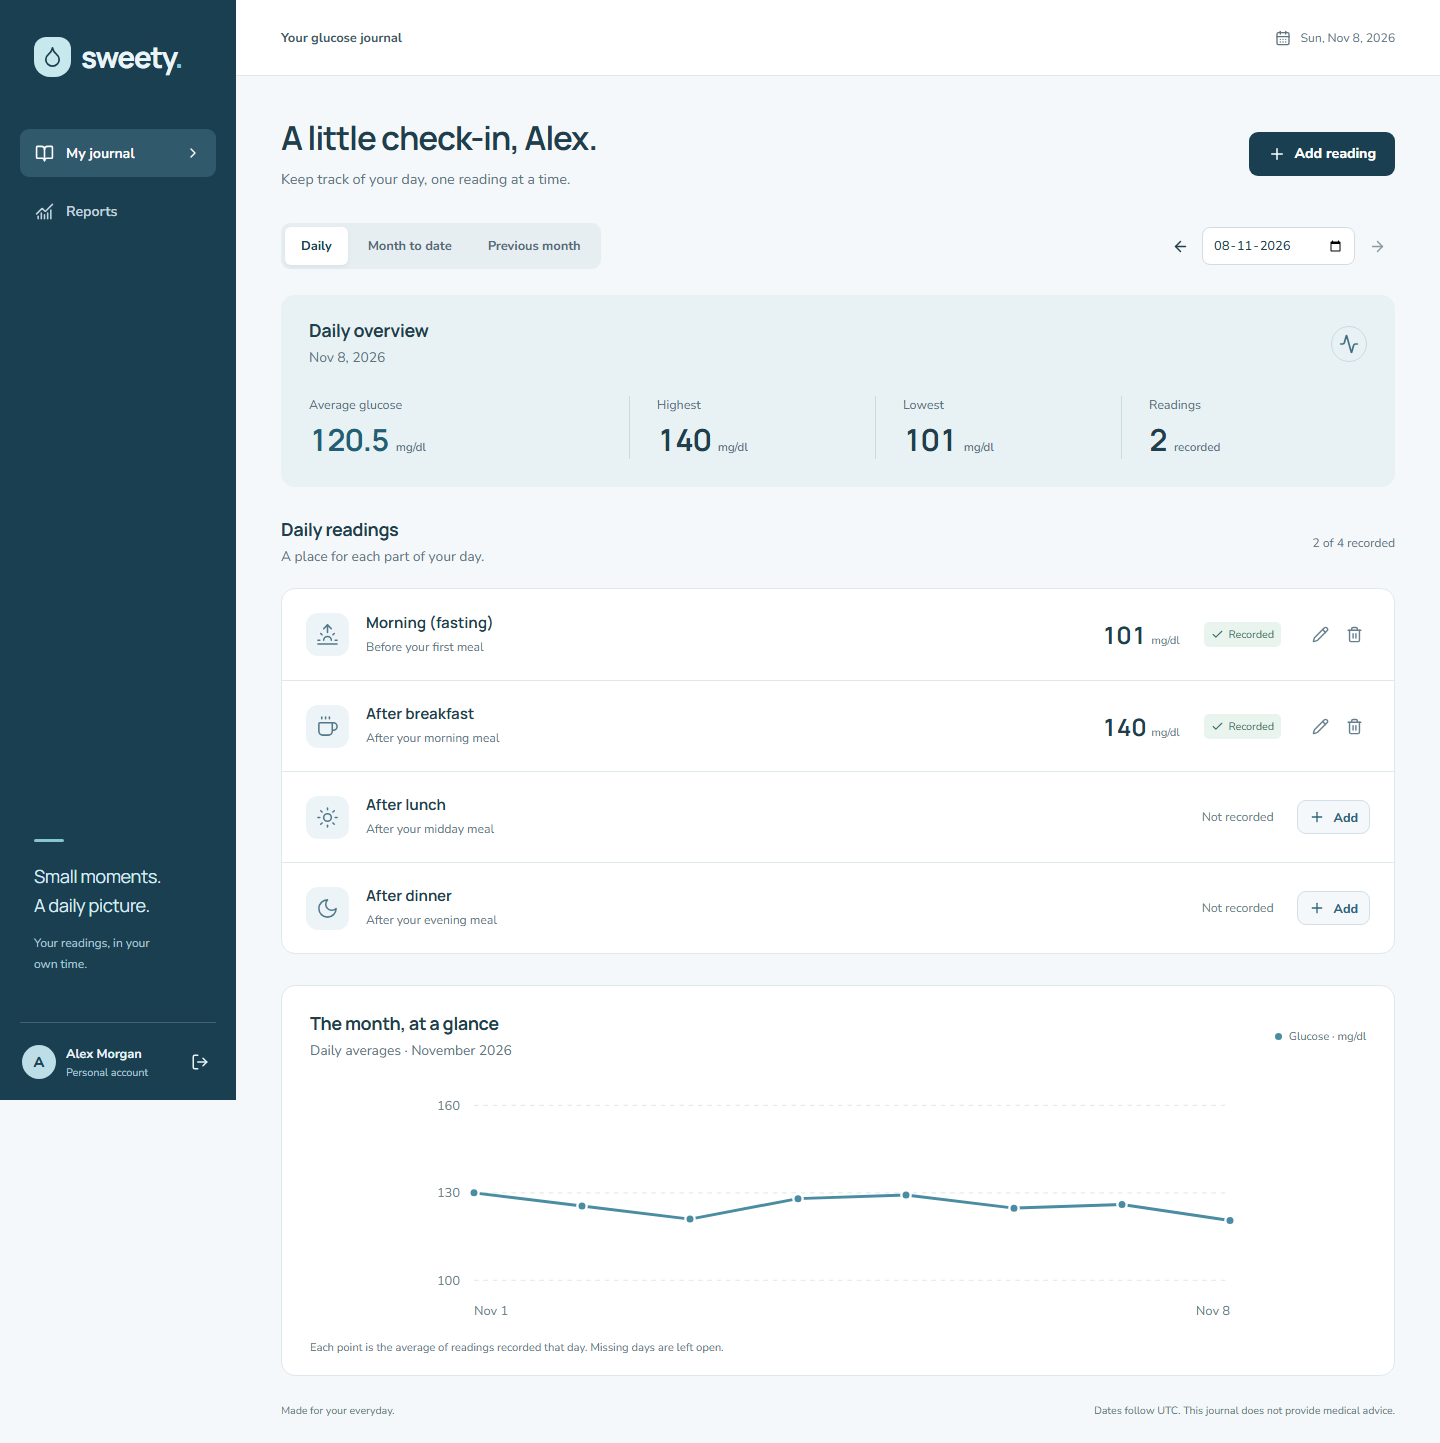
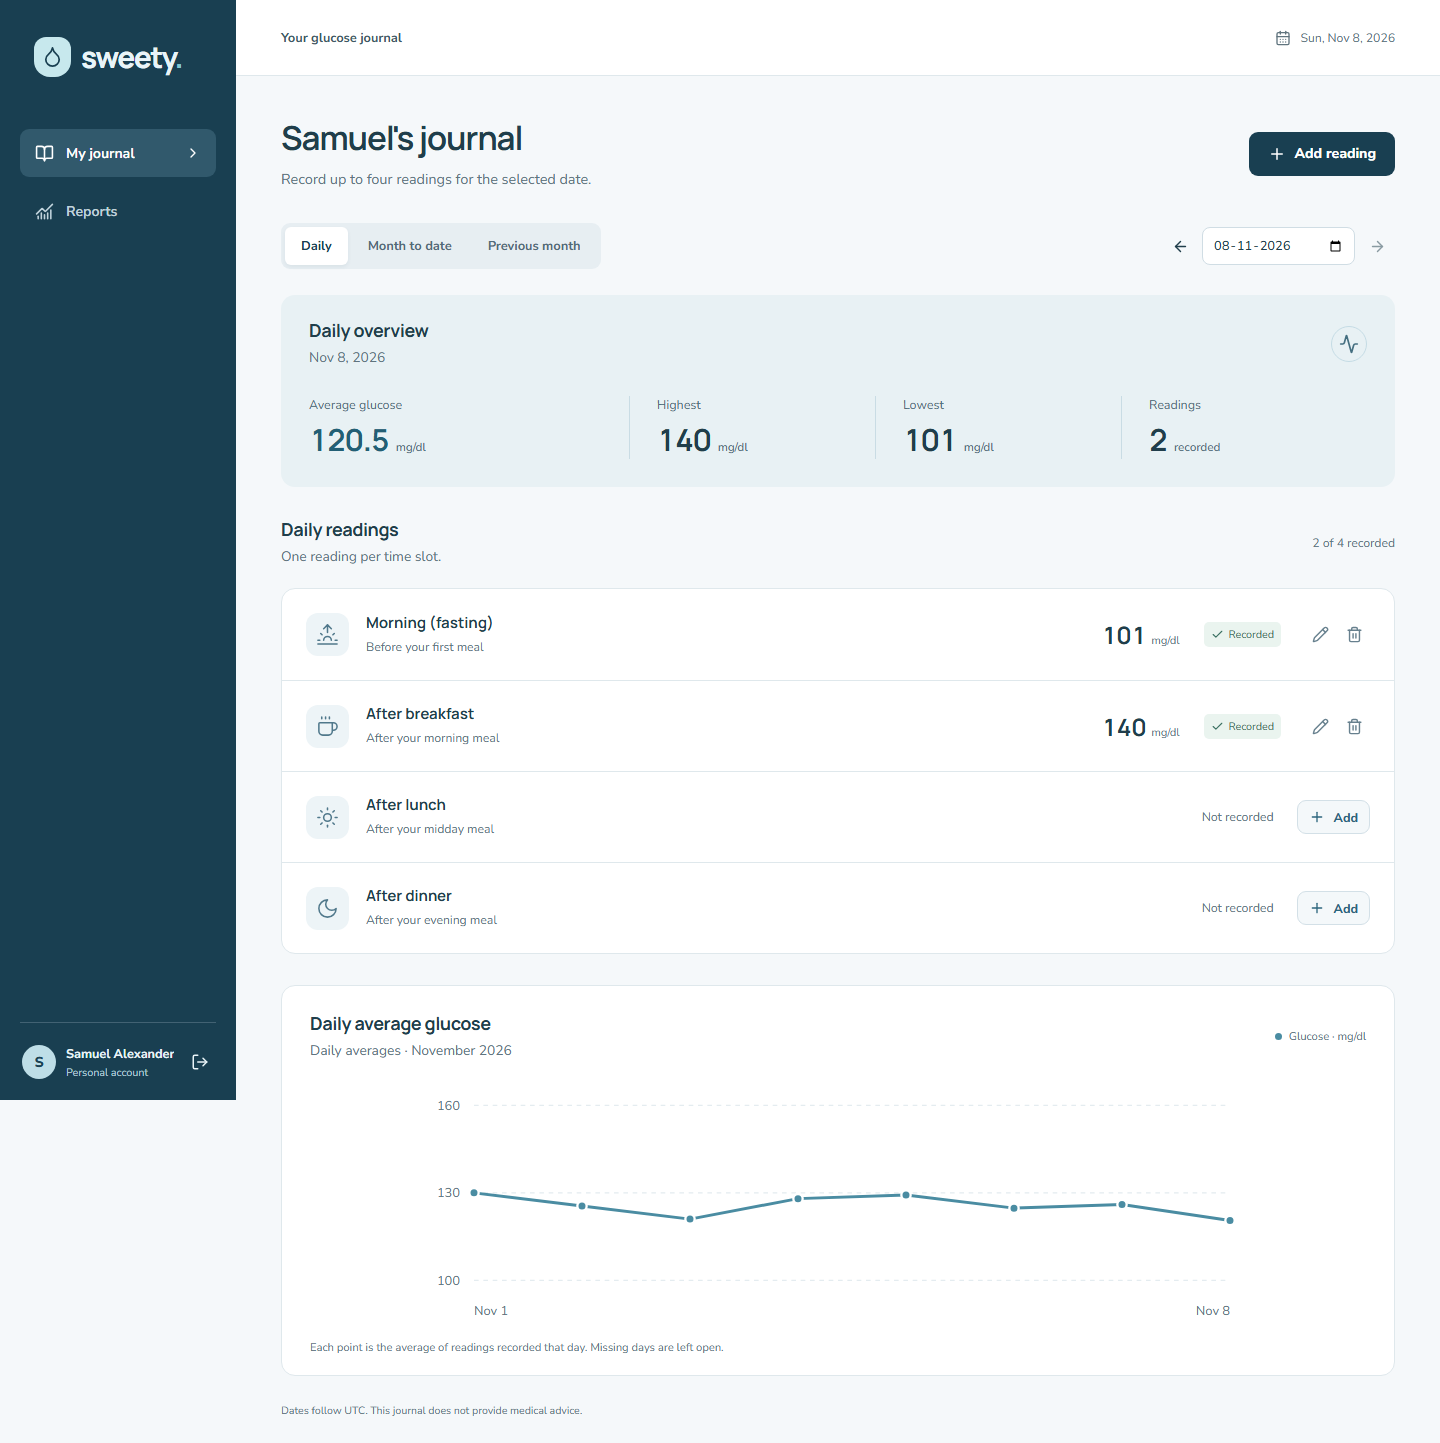
Verify requirements, personalize demo, and remove UI filler

diff --git a/e2e/journal.spec.js b/e2e/journal.spec.js
@@ -7,11 +7,11 @@ test('a patient can register, validate, record, edit, report, delete, and log ba
   const email = `e2e-${randomUUID()}@example.com`;
   await page.goto('/');
   await page.getByRole('button', { name: 'Create an account' }).click();
-  await page.getByLabel('Your name').fill('Jamie');
+  await page.getByLabel('Your name').fill('Samuel Alexander');
   await page.getByLabel('Email address').fill(email);
   await page.getByLabel('Password', { exact: true }).fill('Journal-test-2026');
   await page.getByRole('button', { name: 'Create account', exact: true }).click();
-  await expect(page.getByRole('heading', { name: 'A little check-in, Jamie.' })).toBeVisible();
+  await expect(page.getByRole('heading', { name: "Samuel's journal" })).toBeVisible();
   await expect(page.getByText('Your picture starts with a reading')).toBeVisible();
   await page.getByRole('button', { name: 'Add After lunch', exact: true }).click();
   await page.getByRole('button', { name: 'Save reading' }).click();
@@ -21,10 +21,26 @@ test('a patient can register, validate, record, edit, report, delete, and log ba
   await expect(
     page.getByText('Value must be a whole number between 40 and 600 mg/dl.'),
   ).toBeVisible();
+  await page.getByRole('spinbutton').fill('100.5');
+  await page.getByRole('button', { name: 'Save reading' }).click();
+  await expect(
+    page.getByText('Value must be a whole number between 40 and 600 mg/dl.'),
+  ).toBeVisible();
   await page.getByRole('spinbutton').fill('125');
   await page.getByRole('button', { name: 'Save reading' }).click();
   await expect(page.getByText('1 of 4 recorded')).toBeVisible();
   await expect(page.getByRole('button', { name: 'Edit After lunch' })).toBeVisible();
+  await page.getByRole('button', { name: 'Add reading', exact: true }).click();
+  await page.getByLabel('Time slot').selectOption('lunch');
+  await page.getByRole('spinbutton').fill('120');
+  await page.getByRole('button', { name: 'Save reading' }).click();
+  await expect(page.getByRole('alert')).toContainText(
+    'You already have an After lunch reading for this date.',
+  );
+  await page.getByLabel('Date', { exact: true }).fill('9999-12-31');
+  await page.getByRole('button', { name: 'Save reading' }).click();
+  await expect(page.getByText('Date cannot be in the future.')).toBeVisible();
+  await page.getByRole('button', { name: 'Cancel', exact: true }).click();
   await page.getByRole('button', { name: 'Edit After lunch' }).click();
   await page.getByRole('spinbutton').fill('135');
   await page.getByRole('button', { name: 'Save reading' }).click();
@@ -47,6 +63,22 @@ test('a patient can register, validate, record, edit, report, delete, and log ba
   await page.getByLabel('Password', { exact: true }).fill('Journal-test-2026');
   await page.getByRole('button', { name: 'Log in', exact: true }).click();
   await expect(page.getByText('0 of 4 recorded')).toBeVisible();
+  for (const [slot, value] of [
+    ['Morning (fasting)', '40'],
+    ['After breakfast', '600'],
+    ['After lunch', '120'],
+    ['After dinner', '130'],
+  ]) {
+    await page.getByRole('button', { name: `Add ${slot}`, exact: true }).click();
+    await page.getByRole('spinbutton').fill(value);
+    await page.getByRole('button', { name: 'Save reading' }).click();
+    await expect(page.getByRole('button', { name: `Edit ${slot}`, exact: true })).toBeVisible();
+  }
+  await expect(page.getByText('4 of 4 recorded')).toBeVisible();
+  await page.getByRole('button', { name: 'Add reading', exact: true }).click();
+  await page.getByRole('spinbutton').fill('110');
+  await page.getByRole('button', { name: 'Save reading' }).click();
+  await expect(page.getByRole('alert')).toHaveText('You can add only 4 readings per day.');
 });
 
 test('mobile layout keeps the journal and form within the viewport', async ({ page }) => {

diff --git a/client/src/App.jsx b/client/src/App.jsx
@@ -12,6 +12,7 @@ import {
   RotateCcw,
 } from 'lucide-react';
 import { api } from './api.js';
+import { SLOTS } from '../../shared/domain.js';
 import { formatDate, shiftDate } from './format.js';
 import Brand from './components/Brand.jsx';
 import AuthPage from './components/AuthPage.jsx';
@@ -31,6 +32,7 @@ function Dashboard({ user, settings, onLogout }) {
   const [editor, setEditor] = useState(null);
   const [revision, setRevision] = useState(0);
   const editorRef = useRef(null);
+  const dailyReadings = reports?.daily.readings || [];
   const sessionExpired = useCallback(
     () => onLogout('Your session has expired. Please log in again.'),
     [onLogout],
@@ -124,14 +126,6 @@ function Dashboard({ user, settings, onLogout }) {
             <ChevronRight size={16} />
           </button>
         </nav>
-        <div className="sidebar-note">
-          <span className="note-line" />
-          <p>
-            Small moments.
-            <br />A daily picture.
-          </p>
-          <span>Your readings, in your own time.</span>
-        </div>
         <div className="account">
           <span className="avatar">{user.name.slice(0, 1).toUpperCase()}</span>
           <div>
@@ -155,14 +149,12 @@ function Dashboard({ user, settings, onLogout }) {
           <div className="page-heading">
             <div>
               <h1>
-                {type === 'daily'
-                  ? `A little check-in, ${user.name.split(' ')[0]}.`
-                  : 'See the bigger picture.'}
+                {type === 'daily' ? `${user.name.split(' ')[0]}'s journal` : 'Glucose reports'}
               </h1>
               <p>
                 {type === 'daily'
-                  ? 'Keep track of your day, one reading at a time.'
-                  : 'Your recorded readings, brought together.'}
+                  ? 'Record up to four readings for the selected date.'
+                  : 'Review daily values and monthly summaries.'}
               </p>
             </div>
             <button
@@ -170,11 +162,8 @@ function Dashboard({ user, settings, onLogout }) {
               onClick={() =>
                 openEditor({
                   slot:
-                    reports?.daily.readings.length < 4
-                      ? ['morning', 'breakfast', 'lunch', 'dinner'].find(
-                          (slot) => !reports.daily.readings.some((item) => item.slot === slot),
-                        )
-                      : 'morning',
+                    SLOTS.find((slot) => !dailyReadings.some((reading) => reading.slot === slot.id))
+                      ?.id || SLOTS[0].id,
                 })
               }
             >
@@ -298,7 +287,6 @@ function Dashboard({ user, settings, onLogout }) {
             )
           )}
           <footer className="page-footer">
-            <span>Made for your everyday.</span>
             <span>
               Dates follow {settings.timeZone}. This journal does not provide medical advice.
             </span>

diff --git a/client/src/components/AuthPage.jsx b/client/src/components/AuthPage.jsx
@@ -1,6 +1,7 @@
 import { useState } from 'react';
 import { ArrowRight, Check, Eye, EyeOff, LockKeyhole } from 'lucide-react';
 import { api } from '../api.js';
+import { SLOTS } from '../../../shared/domain.js';
 import Brand from './Brand.jsx';
 
 export default function AuthPage({ onLogin }) {
@@ -36,31 +37,30 @@ export default function AuthPage({ onLogin }) {
         <Brand />
         <div className="auth-message">
           <h1>
-            A little record.
-            <br />A clearer picture.
+            Your blood glucose,
+            <br />
+            day by day.
           </h1>
-          <p>Your daily readings, together in one place. Make room for a simple routine.</p>
+          <p>Record four daily slots and review daily and monthly reports.</p>
           <div className="sample-log" aria-label="Illustrative daily log">
             <div className="sample-title">
               <span>A day in your journal</span>
               <span>Example</span>
             </div>
-            {['Morning (fasting)', 'After breakfast', 'After lunch', 'After dinner'].map(
-              (label, index) => (
-                <div className="sample-row" key={label}>
-                  <span className="sample-check">
-                    <Check size={14} />
-                  </span>
-                  <span>{label}</span>
-                  <strong>
-                    {[98, 132, 125, 118][index]} <small>mg/dl</small>
-                  </strong>
-                </div>
-              ),
-            )}
+            {SLOTS.map((slot, index) => (
+              <div className="sample-row" key={slot.id}>
+                <span className="sample-check">
+                  <Check size={14} />
+                </span>
+                <span>{slot.label}</span>
+                <strong>
+                  {[98, 132, 125, 118][index]} <small>mg/dl</small>
+                </strong>
+              </div>
+            ))}
           </div>
         </div>
-        <p className="auth-footnote">A personal journal, one reading at a time.</p>
+        <p className="auth-footnote">All values are recorded in mg/dl.</p>
       </section>
       <section className="auth-form-area">
         <div className="auth-form-wrap">

diff --git a/client/src/components/DailyLog.jsx b/client/src/components/DailyLog.jsx
@@ -3,7 +3,7 @@ import { Check, Coffee, Moon, Pencil, Plus, Sun, Sunrise, Trash2 } from 'lucide-
 import { SLOTS } from '../../../shared/domain.js';
 import { api } from '../api.js';
 
-export const slotIcons = [Sunrise, Coffee, Sun, Moon];
+const slotIcons = [Sunrise, Coffee, Sun, Moon];
 
 export default function DailyLog({ readings, onAdd, onEdit, onDeleted, onSessionExpired }) {
   const [deleting, setDeleting] = useState(null);
@@ -30,7 +30,7 @@ export default function DailyLog({ readings, onAdd, onEdit, onDeleted, onSession
       <div className="section-heading">
         <div>
           <h2 id="daily-log-title">Daily readings</h2>
-          <p className="muted">A place for each part of your day.</p>
+          <p className="muted">One reading per time slot.</p>
         </div>
         <span className="count-label">{readings.length} of 4 recorded</span>
       </div>
@@ -39,7 +39,7 @@ export default function DailyLog({ readings, onAdd, onEdit, onDeleted, onSession
           const reading = readings.find((item) => item.slot === slot.id);
           const Icon = slotIcons[index];
           return (
-            <div className={`slot-row ${reading ? 'recorded' : ''}`} key={slot.id}>
+            <div className="slot-row" key={slot.id}>
               <span className="slot-icon">
                 <Icon size={23} strokeWidth={1.6} />
               </span>

diff --git a/client/src/styles.css b/client/src/styles.css
@@ -464,34 +464,8 @@ select[aria-invalid='true'] {
   background: #2c5265;
   color: white;
 }
-.sidebar-note {
-  margin: auto 14px 48px;
-  padding-top: 70px;
-}
-.note-line {
-  display: block;
-  width: 30px;
-  height: 3px;
-  background: #86c6d0;
-  border-radius: 2px;
-  margin-bottom: 20px;
-}
-.sidebar-note p {
-  color: #daebf1;
-  font-family: 'Manrope Variable', sans-serif;
-  font-size: 1.13rem;
-  line-height: 1.6;
-  letter-spacing: -0.02em;
-}
-.sidebar-note > span:last-child {
-  display: block;
-  margin-top: 13px;
-  font-size: 0.75rem;
-  line-height: 1.7;
-  color: #afc7d2;
-  max-width: 19ch;
-}
 .account {
+  margin-top: auto;
   border-top: 1px solid #426273;
   display: flex;
   align-items: center;
@@ -1211,9 +1185,6 @@ tbody tr:last-child td {
     padding: 10px 14px;
     font-size: 0.82rem;
   }
-  .sidebar-note {
-    display: none;
-  }
   .account {
     border: 0;
     padding: 0;
@@ -1223,7 +1194,8 @@ tbody tr:last-child td {
     display: none;
   }
   .account strong {
-    max-width: 100px;
+    max-width: 130px;
+    white-space: normal;
     font-size: 0.74rem;
   }
   .workspace {

diff --git a/shared/domain.js b/shared/domain.js
@@ -2,17 +2,15 @@ export const SLOTS = [
   {
     id: 'morning',
     label: 'Morning (fasting)',
-    short: 'Morning',
     context: 'Before your first meal',
   },
   {
     id: 'breakfast',
     label: 'After breakfast',
-    short: 'Breakfast',
     context: 'After your morning meal',
   },
-  { id: 'lunch', label: 'After lunch', short: 'Lunch', context: 'After your midday meal' },
-  { id: 'dinner', label: 'After dinner', short: 'Dinner', context: 'After your evening meal' },
+  { id: 'lunch', label: 'After lunch', context: 'After your midday meal' },
+  { id: 'dinner', label: 'After dinner', context: 'After your evening meal' },
 ];
 
 export function todayIn(timeZone = 'UTC', now = new Date()) {

diff --git a/server/test/api.test.js b/server/test/api.test.js
@@ -163,6 +163,9 @@ test('report ranges exclude future-month and older readings and round averages t
     [monthly.start, monthly.end, monthly.count, monthly.average],
     ['2026-09-01', '2026-09-30', 2, 105],
   );
+  const earlier = (await agent.get('/api/reports?date=2026-10-14').expect(200)).body.reports;
+  assert.deepEqual([earlier.daily.count, earlier.daily.average], [1, 600]);
+  assert.deepEqual([earlier.mtd.count, earlier.mtd.average], [2, 320]);
   const empty = (await agent.get('/api/reports?date=2026-01-01')).body.reports.daily;
   assert.deepEqual(
     [empty.count, empty.average, empty.lowest, empty.highest, empty.readings],

diff --git a/server/src/readings.js b/server/src/readings.js
@@ -49,7 +49,8 @@ export function readingsRouter(pool, getToday) {
         throw new ApiError(409, 'You can add only 4 readings per day.');
       const duplicate = existingDay.rows.some((row) => row.slot === slot);
       if (duplicate) {
-        const message = `You already have a ${SLOTS.find((item) => item.id === slot).label} reading for this date.`;
+        const label = SLOTS.find((item) => item.id === slot).label;
+        const message = `You already have ${slot === 'morning' ? 'a' : 'an'} ${label} reading for this date.`;
         throw new ApiError(409, message, { slot: message });
       }
       const result = editing

diff --git a/client/src/components/TrendChart.jsx b/client/src/components/TrendChart.jsx
@@ -37,7 +37,7 @@ export default function TrendChart({ readings, start, end }) {
     <section className="trend-section" aria-labelledby="trend-title">
       <div className="section-heading">
         <div>
-          <h2 id="trend-title">The month, at a glance</h2>
+          <h2 id="trend-title">Daily average glucose</h2>
           <p className="muted">
             Daily averages · {formatDate(start, { month: 'long', year: 'numeric', day: undefined })}
           </p>

diff --git a/server/scripts/seed.js b/server/scripts/seed.js
@@ -14,7 +14,7 @@ try {
   const user = await client.query(
     `INSERT INTO users(id, name, email, password_hash) VALUES ($1, $2, $3, $4)
     ON CONFLICT(email) DO UPDATE SET name = EXCLUDED.name RETURNING id`,
-    [randomUUID(), 'Alex Morgan', email, passwordHash],
+    [randomUUID(), 'Samuel Alexander', email, passwordHash],
   );
   const today = todayIn(config.timeZone);
   const start = reportRanges(today).monthly.start;

diff --git a/README.md b/README.md
@@ -23,7 +23,7 @@ On PowerShell, use `Copy-Item .env.example .env` instead of `cp` if needed. Star
 
 Open **[http://localhost:5173](http://localhost:5173)**. Use this exact origin, matching `APP_ORIGIN` in `.env`. The API runs on port 3001; Vite proxies `/api` requests to it.
 
-Demo login: **demo@sweety.local** / **SweetyDemo2026!**. All seeded data is synthetic. The seed fills the previous month and current month through today, leaving two slots open today. Running it again preserves existing readings and passwords. It is intended for a fresh demo account, not for adding data to a real patient's journal.
+Demo account: **Samuel Alexander**. Login: **demo@sweety.local** / **SweetyDemo2026!**. All seeded data is synthetic. The seed fills the previous month and current month through today, leaving two slots open today. Running it again updates the demo name and preserves existing readings and passwords. It is intended for a fresh demo account, not for adding data to a real patient's journal.
 
 ### Existing PostgreSQL instead of Docker
 
@@ -144,3 +144,20 @@ All screenshots show synthetic demo data. To reproduce them, seed the demo accou
 - With more time: password recovery/email verification, per-user timezone preferences, paginated historical records, accessibility testing with assistive technology, backup/restore procedures, and a shared rate-limit store for multiple API instances.
 
 The Compose definition is included for reproducible setup. Local verification used PostgreSQL 17 installed on Windows because Docker Desktop was not running.
+
+## Requirement verification
+
+Reviewed against the assignment on 8 November 2026. The automated suites contain 17 tests; their assertions cover multiple cases per test.
+
+| Required area                                 | Verification                                                                                                                                                                              |
+| --------------------------------------------- | ----------------------------------------------------------------------------------------------------------------------------------------------------------------------------------------- |
+| Registration, login, bcrypt, private readings | PostgreSQL API tests check password hashing, authentication, session expiry, and isolation between accounts.                                                                              |
+| Add, view, edit, delete                       | Browser workflow covers the full lifecycle; API tests verify persisted changes and ownership restrictions.                                                                                |
+| All five reading validation rules             | Browser assertions check required values, range/whole numbers, duplicate slots, the four-reading limit, and future dates. API and database checks also cover concurrency and constraints. |
+| Daily, month-to-date, previous-month reports  | API assertions check counts, min/max, rounded averages, inclusive boundaries, selected-date cutoffs, and empty results. Calendar tests cover January and leap years.                      |
+| Daily slots and empty-state UI                | Browser tests verify recorded slots and friendly empty reports.                                                                                                                           |
+| Submission materials                          | Public repository with incremental commits, setup/test instructions, `.env.example`, demo seed, screenshots, and Notes are present.                                                       |
+
+The demo account and screenshots use **Samuel Alexander**, with synthetic readings. The quality review removed generic promotional copy, unused slot metadata and CSS, and duplicated frontend slot definitions. Validation and calendar rules are shared by the API and form. The deterministic design scan reported no findings; that is a limited pattern check, not proof of design quality or full accessibility compliance.
+
+Optional chart and frontend tests are implemented. Compose configuration validates, but starting the Docker service was not tested locally; the database behavior was tested against native PostgreSQL 17. The app has not been deployed to a public web host.
